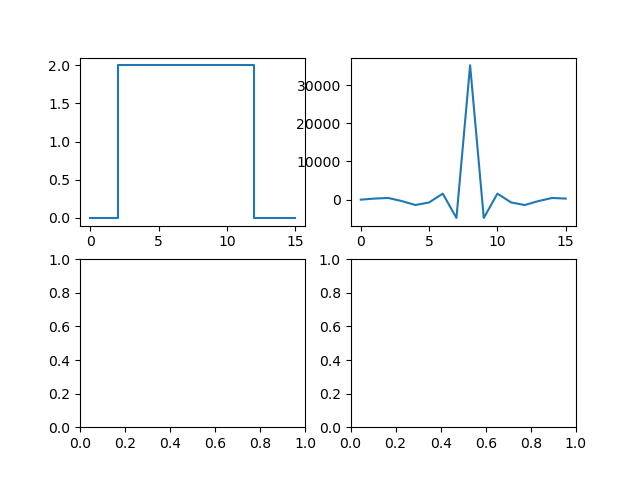
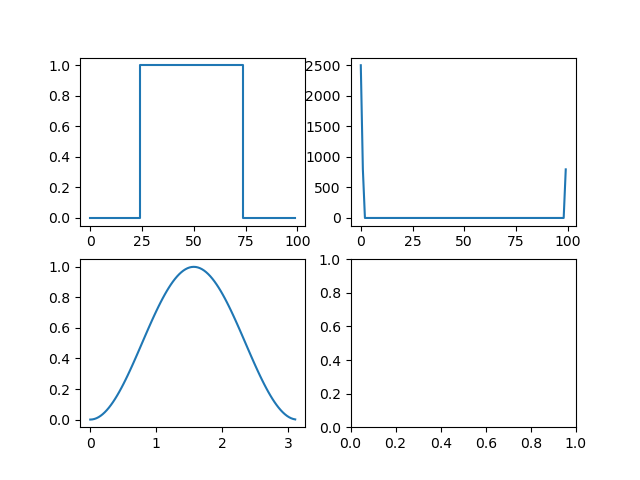
stepfn.py update

diff --git a/pybruteforce/stepfn.py b/pybruteforce/stepfn.py
@@ -1,22 +1,21 @@
 import numpy as np, matplotlib.pyplot as plt
-from cmath import exp,pi
 #test fn: step fn; create fn using np arrays
-n=16
+n=100
+freq = n/np.pi
+#def x and f(x)---->call y
 x = np.arange(0,n,1)
 y =np.zeros(n)
-for i in np.arange(3,13,1):
-    y[i] = 2
+for i in np.arange(25,75):
+    y[i] = 1
+#def t and g(t)-->call u
+t = np.arange(0,np.pi,1/(freq))
+u = (np.sin((t)))**2
+print(x.size,t.size)
 #calculate convolution of step fn (F is fourier) 
-#write step fn above y' in terms of t instead of x and verfiy y',t equic to y,x
-freq = x.size/(2*pi)
-print(freq)
-t = np.zeros(0)
-for i in np.arange(0,n,1):    
-    t[i] = (x[i] * 2 * pi)
-    
-t_fft = np.fft.fft(t)
 y_fft = np.fft.fft(y)#--->f(x)
-ytfft = y_fft * t_fft #---> F(f*g) = Ff(x) * Fg(t) ---->convolution 
+u_fft = np.fft.fft(u)#--->g(t)
+ytfft = y_fft * u_fft #---> F(f*g) = Ff(x) * Fg(t) ---->convolution
+print(ytfft)
 Fyt = np.fft.ifftshift(np.round(np.real(ytfft)))#--->ifftshift [inverse fftshift]: shifts zero freq component 2 centre of spectrum
 #add guassian noise
 
@@ -25,6 +24,7 @@ Fyt = np.fft.ifftshift(np.round(np.real(ytfft)))#--->ifftshift [inverse fftshift
 #plot graphs (stepfn, convoluted stepfn, convoluted stepfn with gaussain)
 figs,axs = plt.subplots(2,2)
 axs[0,0].step(x,y)
-axs[0,1].plot(Fyt)
+axs[1,0].plot(t,u)
+axs[0,1].plot(ytfft)
 plt.savefig('stepfntest.png')
 plt.show()
